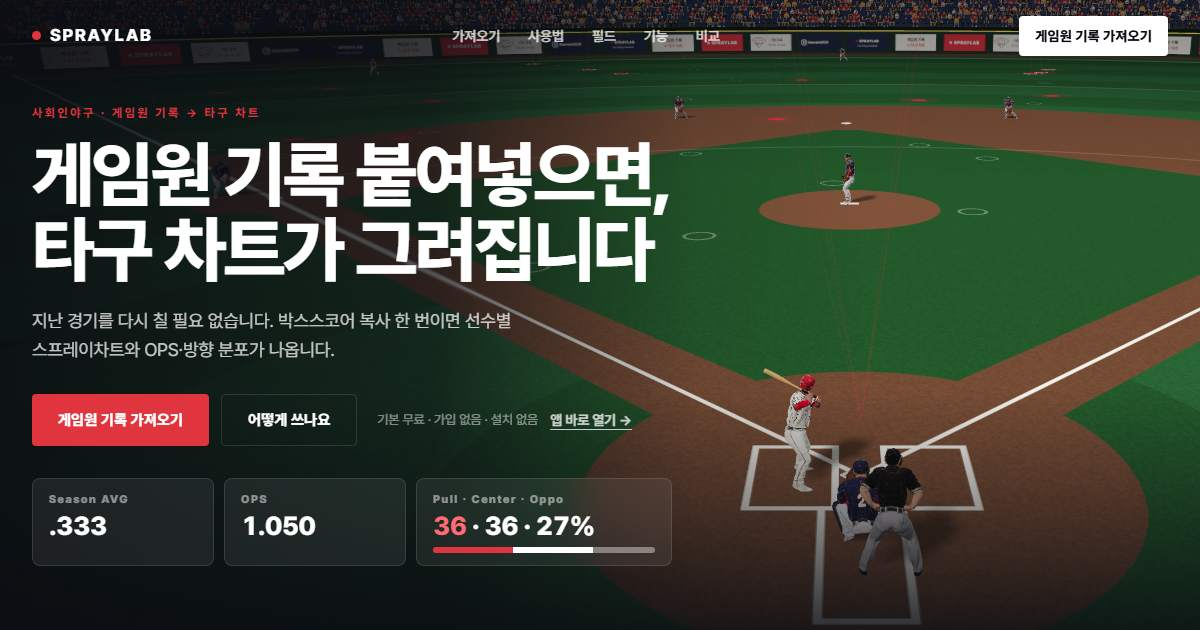
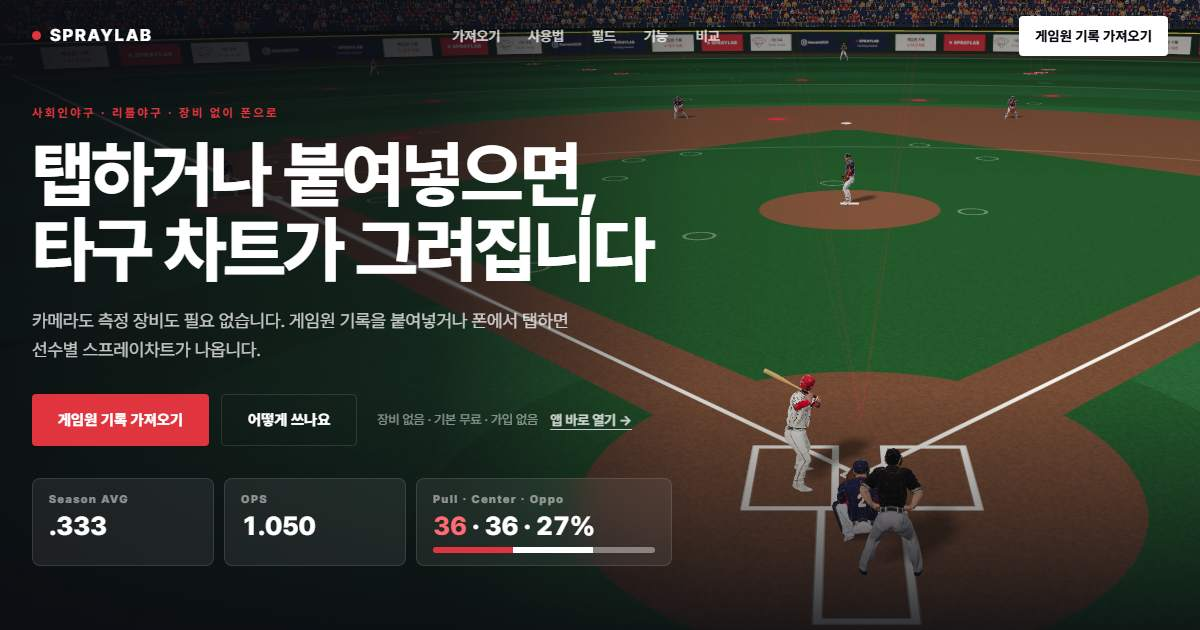
copy(landing): headline "탭하거나 붙여넣으면" + share preview (og.jpg ?v=7)
The share preview (KakaoTalk etc.) still said "게임원 기록 붙여넣으면" in the
og/twitter title, the description and the og.jpg picture (a shot of the hero).

- h1 / <title> / og:title / twitter:title: "탭하거나 붙여넣으면 …"
- description / og / twitter: same words as the hero lead from #345
- og.jpg re-shot at 1200x630 (3D first frame), ?v=6 -> ?v=7

landing.html and landing.src.html changed identically. CTA, 3D, other images unchanged.

diff --git a/landing.html b/landing.html
@@ -3,8 +3,8 @@
 <head>
 <meta charset="utf-8">
 <meta name="viewport" content="width=device-width, initial-scale=1">
-<title>SprayLab — 게임원 기록 붙여넣으면 타구 차트가 그려진다</title>
-<meta name="description" content="사회인야구 게임원 기록을 붙여넣으면 선수별 스프레이차트와 OPS·방향 분포가 나옵니다. 기본 무료 · 가입 없음 · 설치 없음.">
+<title>SprayLab — 탭하거나 붙여넣으면 타구 차트가 그려진다</title>
+<meta name="description" content="카메라도 측정 장비도 필요 없습니다. 게임원 기록을 붙여넣거나 폰에서 탭하면 선수별 스프레이차트가 나옵니다. 장비 없음 · 기본 무료 · 가입 없음.">
 <meta name="theme-color" content="#0B0D12">
 <link rel="icon" type="image/png" sizes="32x32" href="assets/landing/img/icon-32.png?v=e260f2ec">
 <link rel="icon" type="image/png" sizes="192x192" href="assets/landing/img/icon-192.png?v=800bcedd">
@@ -12,16 +12,16 @@
 <link rel="canonical" href="https://kimjeongcheol13.github.io/baseball-spray-chart/landing.html">
 <meta property="og:type" content="website">
 <meta property="og:site_name" content="SprayLab">
-<meta property="og:title" content="SprayLab — 게임원 기록 붙여넣으면 타구 차트가 그려진다">
-<meta property="og:description" content="사회인야구 게임원 기록을 붙여넣으면 선수별 스프레이차트와 OPS·방향 분포가 나옵니다. 기본 무료 · 가입 없음 · 설치 없음.">
+<meta property="og:title" content="SprayLab — 탭하거나 붙여넣으면 타구 차트가 그려진다">
+<meta property="og:description" content="카메라도 측정 장비도 필요 없습니다. 게임원 기록을 붙여넣거나 폰에서 탭하면 선수별 스프레이차트가 나옵니다. 장비 없음 · 기본 무료 · 가입 없음.">
 <meta property="og:url" content="https://kimjeongcheol13.github.io/baseball-spray-chart/landing.html">
-<meta property="og:image" content="https://kimjeongcheol13.github.io/baseball-spray-chart/assets/landing/img/og.jpg?v=6">
+<meta property="og:image" content="https://kimjeongcheol13.github.io/baseball-spray-chart/assets/landing/img/og.jpg?v=7">
 <meta property="og:image:width" content="1200">
 <meta property="og:image:height" content="630">
 <meta name="twitter:card" content="summary_large_image">
-<meta name="twitter:title" content="SprayLab — 게임원 기록 붙여넣으면 타구 차트가 그려진다">
-<meta name="twitter:description" content="사회인야구 게임원 기록을 붙여넣으면 선수별 스프레이차트와 OPS·방향 분포가 나옵니다. 기본 무료 · 가입 없음 · 설치 없음.">
-<meta name="twitter:image" content="https://kimjeongcheol13.github.io/baseball-spray-chart/assets/landing/img/og.jpg?v=6">
+<meta name="twitter:title" content="SprayLab — 탭하거나 붙여넣으면 타구 차트가 그려진다">
+<meta name="twitter:description" content="카메라도 측정 장비도 필요 없습니다. 게임원 기록을 붙여넣거나 폰에서 탭하면 선수별 스프레이차트가 나옵니다. 장비 없음 · 기본 무료 · 가입 없음.">
+<meta name="twitter:image" content="https://kimjeongcheol13.github.io/baseball-spray-chart/assets/landing/img/og.jpg?v=7">
 <link rel="preload" as="image" href="assets/landing/img/hero_close.jpg?v=47924b35" media="(min-width: 1024px)" fetchpriority="high">
 <link rel="preload" as="image" href="assets/landing/img/hero_close_m.jpg?v=7e5f6f34" media="(max-width: 1023px)" fetchpriority="high">
 <link rel="stylesheet" href="https://cdn.jsdelivr.net/gh/orioncactus/pretendard@1.3.9/dist/web/variable/pretendardvariable-dynamic-subset.min.css">
@@ -221,7 +221,7 @@
   <div class="wrap">
     <div>
       <div class="kicker">사회인야구 · 리틀야구 · 장비 없이 폰으로</div>
-      <h1>게임원&nbsp;기록&nbsp;붙여넣으면,<br>타구&nbsp;차트가&nbsp;그려집니다</h1>
+      <h1>탭하거나&nbsp;붙여넣으면,<br>타구&nbsp;차트가&nbsp;그려집니다</h1>
       <p class="lead">카메라도 측정 장비도 필요 없습니다. 게임원 기록을 붙여넣거나 폰에서 탭하면 선수별 스프레이차트가 나옵니다.</p>
       <div class="cta"><a class="btn btn-red js-start" data-cta="hero" href="index.html?go=1">게임원 기록 가져오기</a><a class="btn btn-ghost" href="#import">어떻게 쓰나요</a><small>장비 없음 · 기본 무료 · 가입 없음</small><a class="app-open" href="index.html?app=1">앱 바로 열기 →</a></div>
     <div class="chips">

diff --git a/design/landing-3d/next/landing.src.html b/design/landing-3d/next/landing.src.html
@@ -3,8 +3,8 @@
 <head>
 <meta charset="utf-8">
 <meta name="viewport" content="width=device-width, initial-scale=1">
-<title>SprayLab — 게임원 기록 붙여넣으면 타구 차트가 그려진다</title>
-<meta name="description" content="사회인야구 게임원 기록을 붙여넣으면 선수별 스프레이차트와 OPS·방향 분포가 나옵니다. 기본 무료 · 가입 없음 · 설치 없음.">
+<title>SprayLab — 탭하거나 붙여넣으면 타구 차트가 그려진다</title>
+<meta name="description" content="카메라도 측정 장비도 필요 없습니다. 게임원 기록을 붙여넣거나 폰에서 탭하면 선수별 스프레이차트가 나옵니다. 장비 없음 · 기본 무료 · 가입 없음.">
 <meta name="theme-color" content="#0B0D12">
 <link rel="icon" type="image/png" sizes="32x32" href="assets/landing/img/icon-32.png">
 <link rel="icon" type="image/png" sizes="192x192" href="assets/landing/img/icon-192.png">
@@ -12,16 +12,16 @@
 <link rel="canonical" href="https://kimjeongcheol13.github.io/baseball-spray-chart/landing.html">
 <meta property="og:type" content="website">
 <meta property="og:site_name" content="SprayLab">
-<meta property="og:title" content="SprayLab — 게임원 기록 붙여넣으면 타구 차트가 그려진다">
-<meta property="og:description" content="사회인야구 게임원 기록을 붙여넣으면 선수별 스프레이차트와 OPS·방향 분포가 나옵니다. 기본 무료 · 가입 없음 · 설치 없음.">
+<meta property="og:title" content="SprayLab — 탭하거나 붙여넣으면 타구 차트가 그려진다">
+<meta property="og:description" content="카메라도 측정 장비도 필요 없습니다. 게임원 기록을 붙여넣거나 폰에서 탭하면 선수별 스프레이차트가 나옵니다. 장비 없음 · 기본 무료 · 가입 없음.">
 <meta property="og:url" content="https://kimjeongcheol13.github.io/baseball-spray-chart/landing.html">
-<meta property="og:image" content="https://kimjeongcheol13.github.io/baseball-spray-chart/assets/landing/img/og.jpg?v=6">
+<meta property="og:image" content="https://kimjeongcheol13.github.io/baseball-spray-chart/assets/landing/img/og.jpg?v=7">
 <meta property="og:image:width" content="1200">
 <meta property="og:image:height" content="630">
 <meta name="twitter:card" content="summary_large_image">
-<meta name="twitter:title" content="SprayLab — 게임원 기록 붙여넣으면 타구 차트가 그려진다">
-<meta name="twitter:description" content="사회인야구 게임원 기록을 붙여넣으면 선수별 스프레이차트와 OPS·방향 분포가 나옵니다. 기본 무료 · 가입 없음 · 설치 없음.">
-<meta name="twitter:image" content="https://kimjeongcheol13.github.io/baseball-spray-chart/assets/landing/img/og.jpg?v=6">
+<meta name="twitter:title" content="SprayLab — 탭하거나 붙여넣으면 타구 차트가 그려진다">
+<meta name="twitter:description" content="카메라도 측정 장비도 필요 없습니다. 게임원 기록을 붙여넣거나 폰에서 탭하면 선수별 스프레이차트가 나옵니다. 장비 없음 · 기본 무료 · 가입 없음.">
+<meta name="twitter:image" content="https://kimjeongcheol13.github.io/baseball-spray-chart/assets/landing/img/og.jpg?v=7">
 <link rel="preload" as="image" href="assets/landing/img/hero_close.jpg" media="(min-width: 1024px)" fetchpriority="high">
 <link rel="preload" as="image" href="assets/landing/img/hero_close_m.jpg" media="(max-width: 1023px)" fetchpriority="high">
 <link rel="stylesheet" href="https://cdn.jsdelivr.net/gh/orioncactus/pretendard@1.3.9/dist/web/variable/pretendardvariable-dynamic-subset.min.css">
@@ -221,7 +221,7 @@
   <div class="wrap">
     <div>
       <div class="kicker">사회인야구 · 리틀야구 · 장비 없이 폰으로</div>
-      <h1>게임원&nbsp;기록&nbsp;붙여넣으면,<br>타구&nbsp;차트가&nbsp;그려집니다</h1>
+      <h1>탭하거나&nbsp;붙여넣으면,<br>타구&nbsp;차트가&nbsp;그려집니다</h1>
       <p class="lead">카메라도 측정 장비도 필요 없습니다. 게임원 기록을 붙여넣거나 폰에서 탭하면 선수별 스프레이차트가 나옵니다.</p>
       <div class="cta"><a class="btn btn-red js-start" data-cta="hero" href="index.html?go=1">게임원 기록 가져오기</a><a class="btn btn-ghost" href="#import">어떻게 쓰나요</a><small>장비 없음 · 기본 무료 · 가입 없음</small><a class="app-open" href="index.html?app=1">앱 바로 열기 →</a></div>
     <div class="chips">
